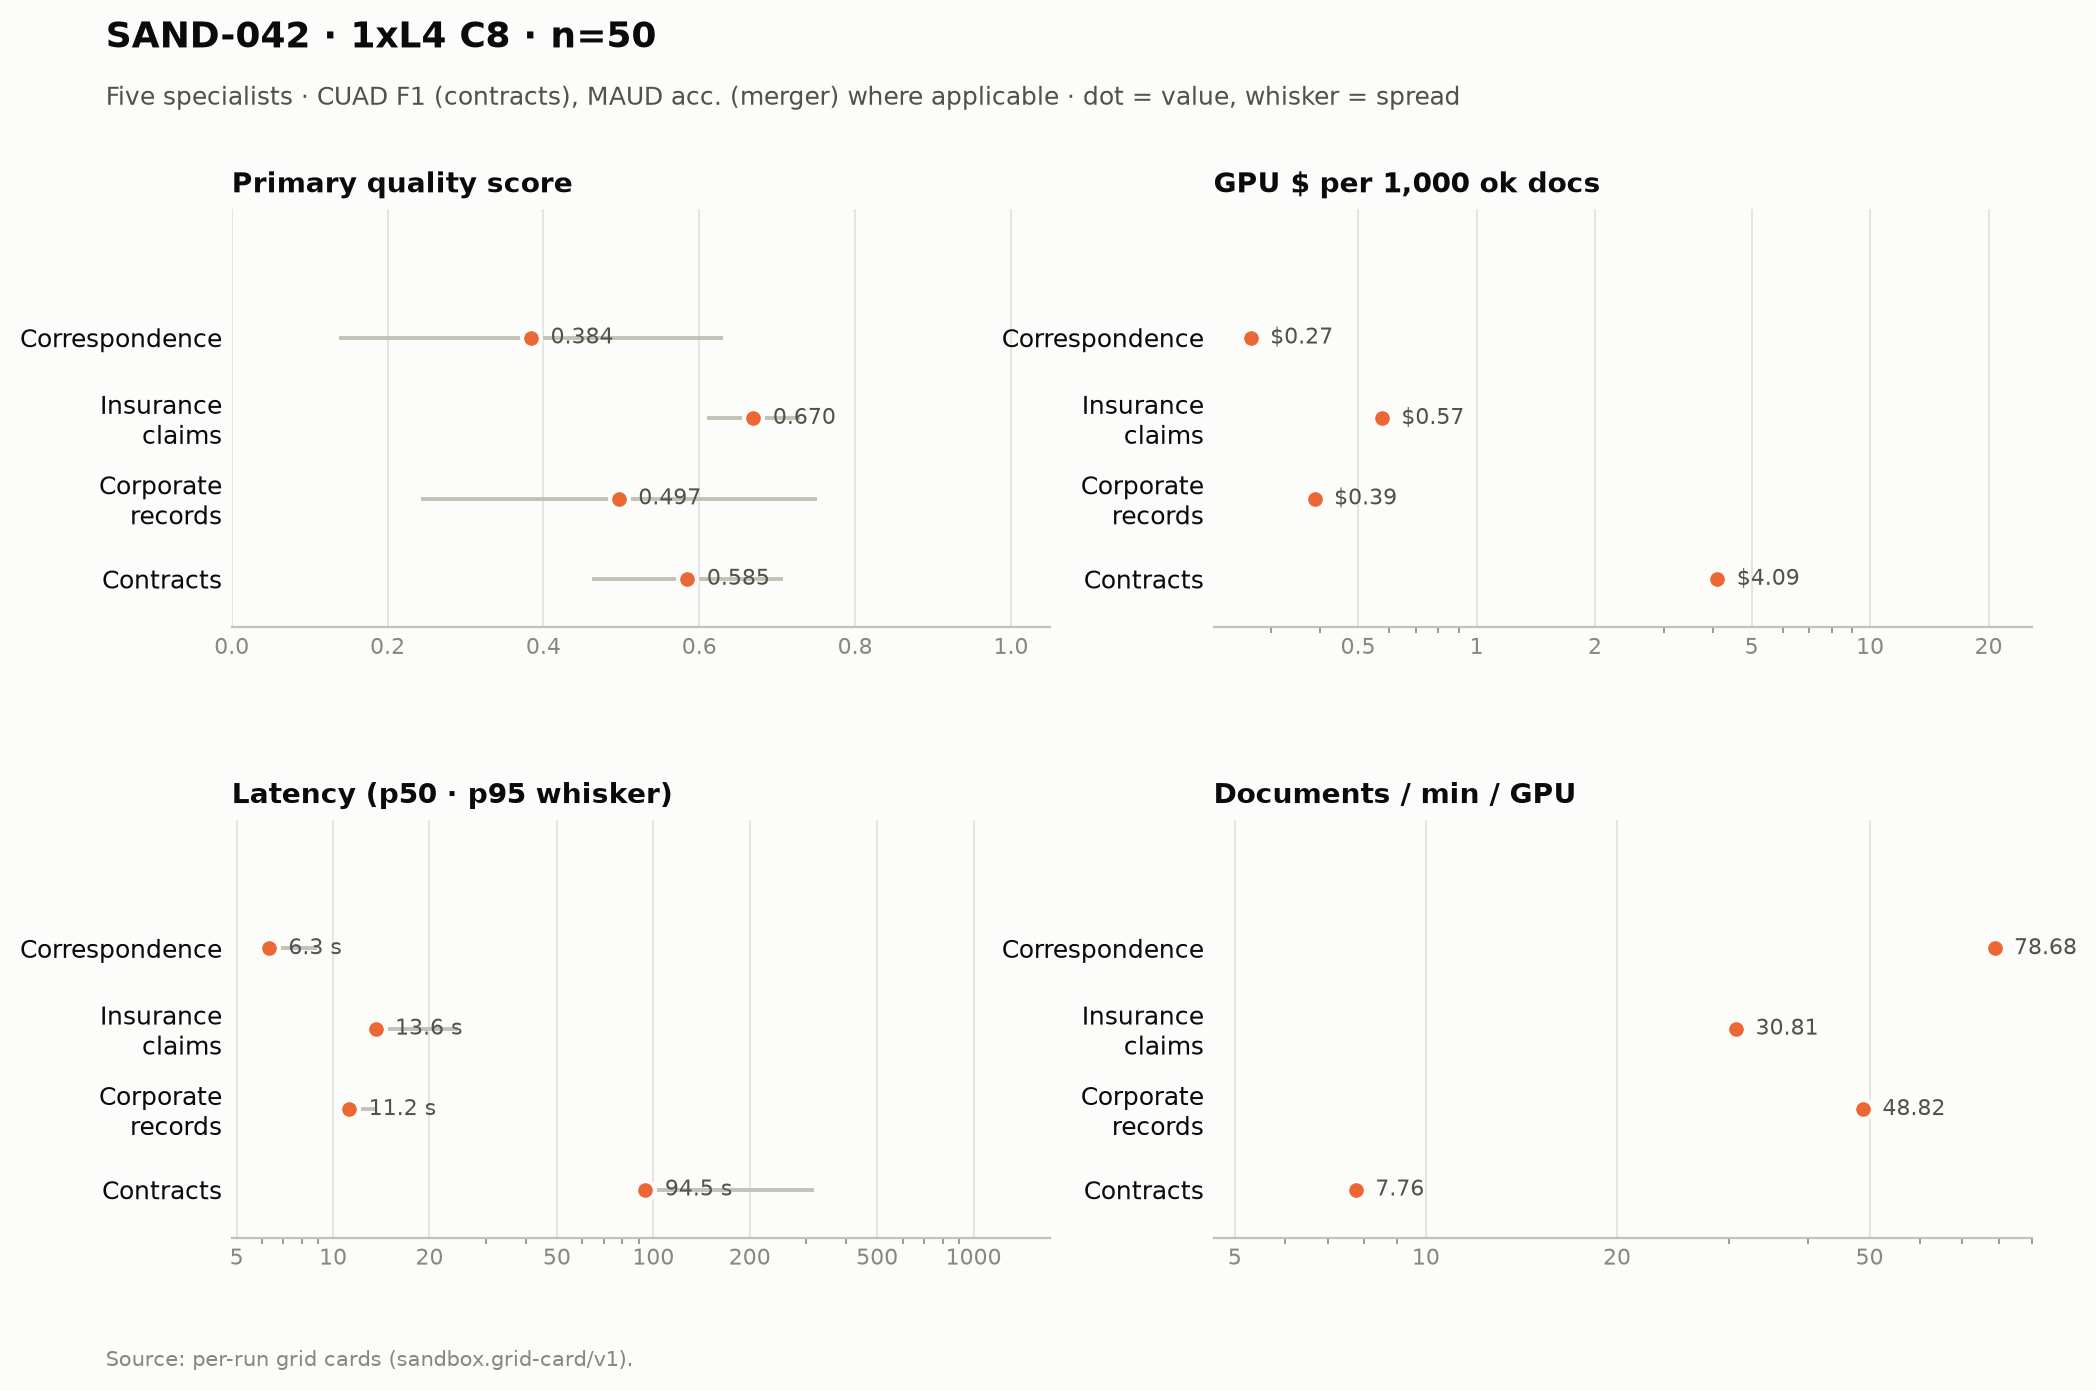
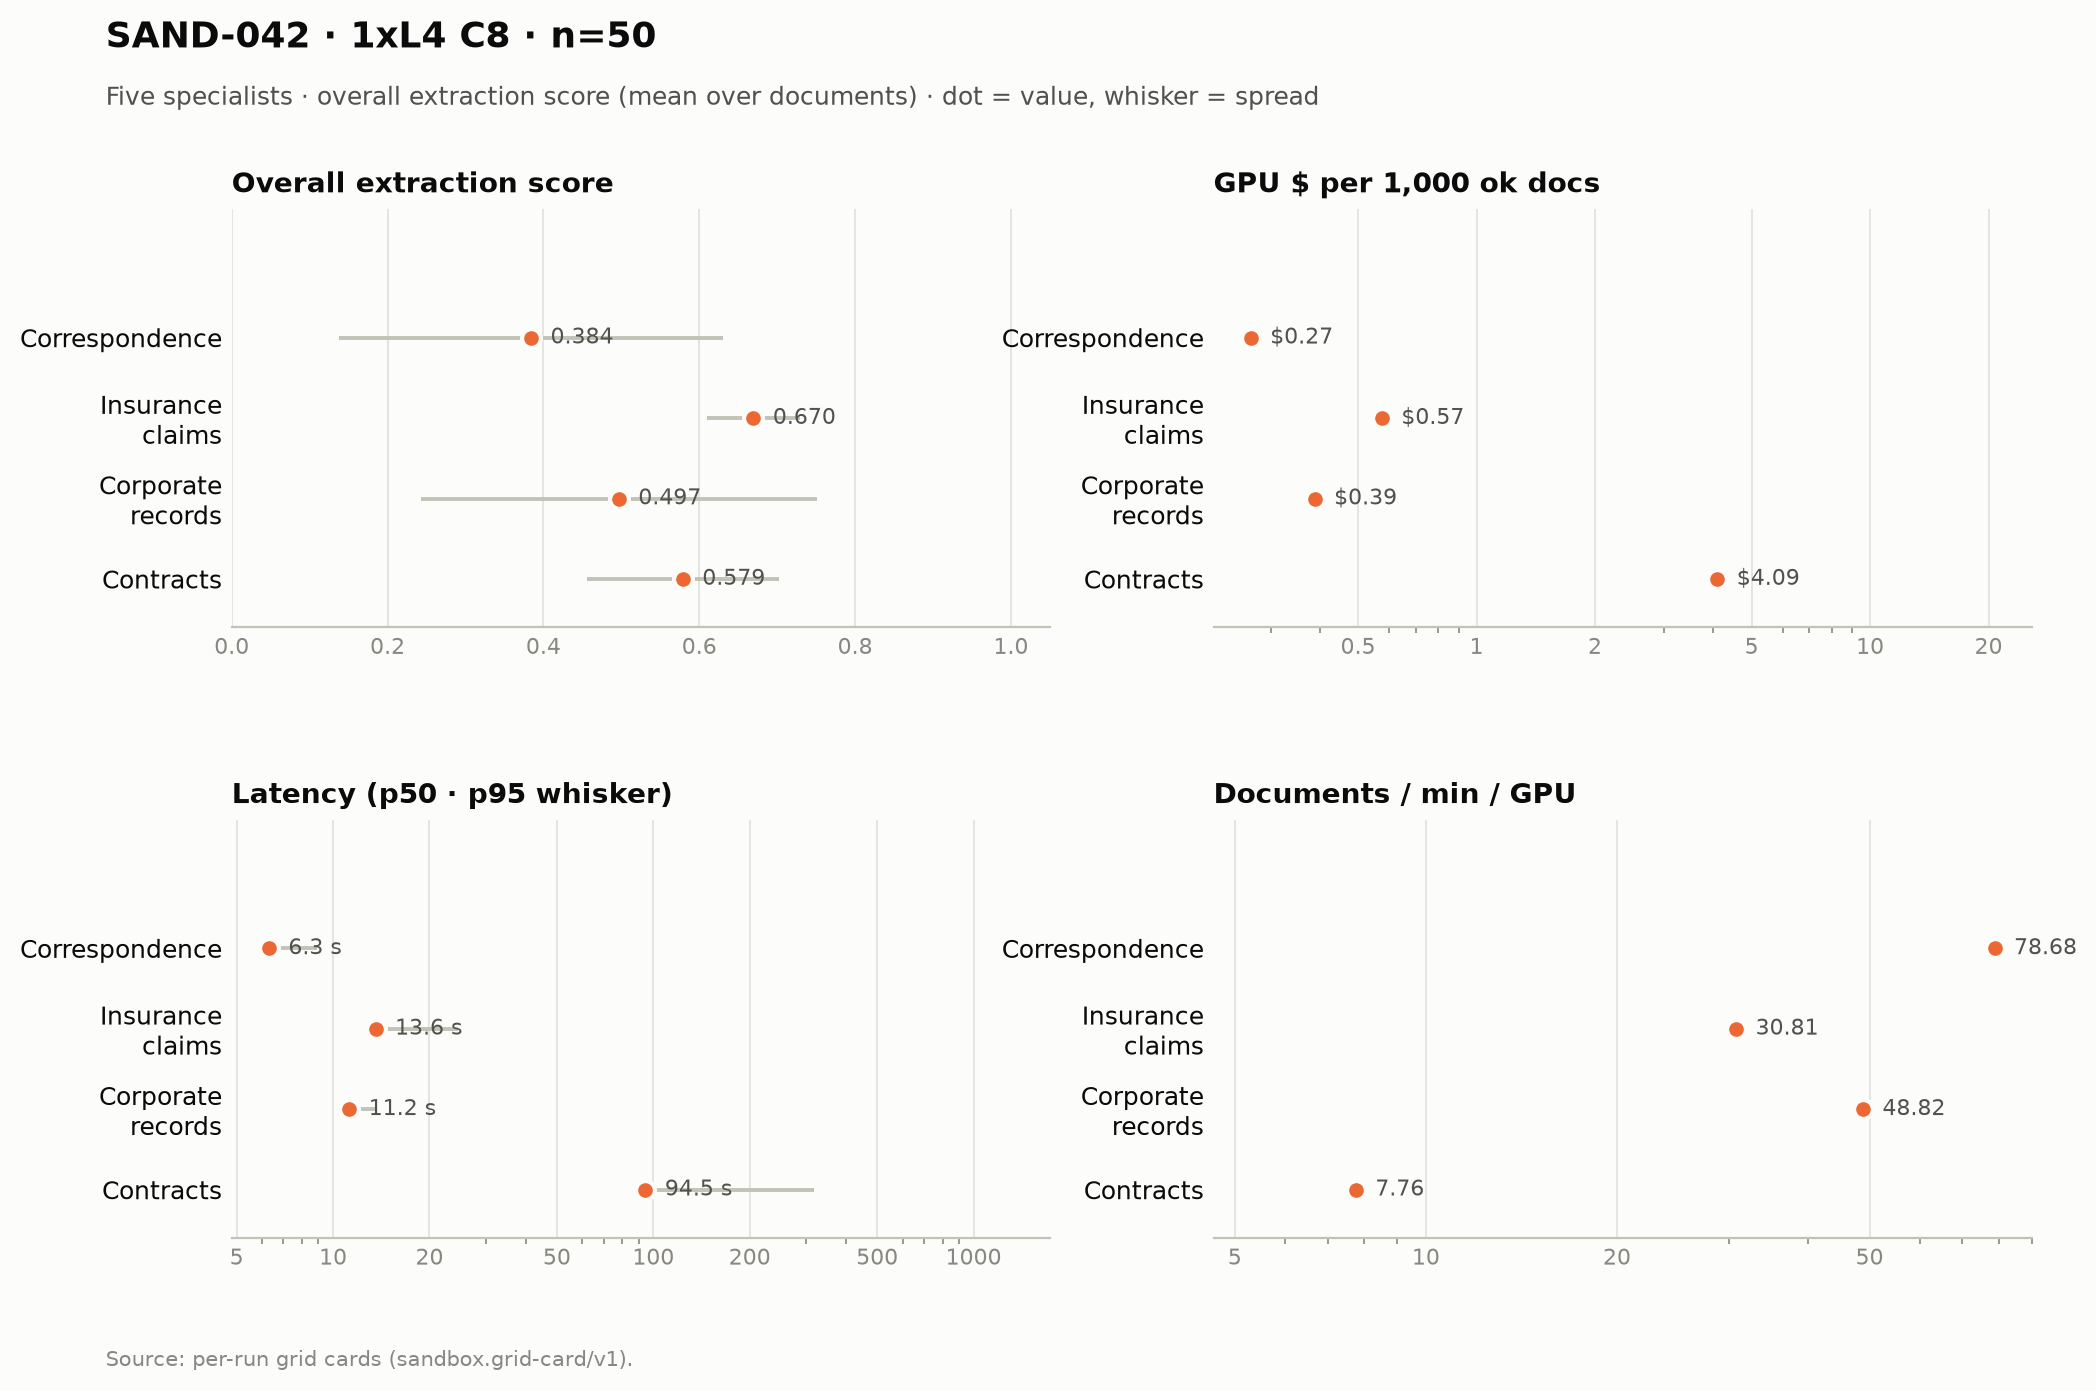
SAND-042: preserve the full vLLM exporter output; reconcile the figure metric
Metric preservation (the exporter published more than we kept)
- vLLM's Prometheus /metrics exposes ~122 families; vllm_metrics kept only 10 and
  threw the rest away. Preserve the verbatim exporter text per replica
  (vllm_metrics_<label>.txt beside the summarized JSON). The dropped families are
  the ones that explain C8-vs-C16: vllm:num_requests_running/waiting, e2e and
  inter-token latency histograms, queue/prefill/decode time.

Figures — one scale for every specialist
- sand42_figures._primary returned CUAD clause F1 for contracts and MAUD accuracy
  for merger, so the dashboard/quality axis disagreed with the per-run card's
  "Overall extraction score", the cell card's Quality row and the master report
  table (grid_figures._primary already used overall_mean). Use overall_mean for
  every specialist; retitle the axis/subtitles accordingly. Clause F1 / MAUD
  accuracy stay on the run cards' clause section.

Docs
- SAND42-EXPERIMENT-DESIGN §5.3: the sampler query now lists the L4 extras
  (utilization.memory, power.limit, clocks.sm). §5.2/§9.2: note the exporter
  output is preserved verbatim, so an OTLP metric stream would be a transport
  duplicate of an already-captured series.

Changed region(s): [[0.1551, 0.0618, 0.6823, 0.0927], [0.093, 0.1237, 0.3101, 0.1546], [0.3101, 0.4019, 0.3721, 0.4328]]

diff --git a/src/mailroom_sandbox/job/sand42_figures.py b/src/mailroom_sandbox/job/sand42_figures.py
@@ -54,10 +54,10 @@ _SOURCE = "Source: per-run grid cards (sandbox.grid-card/v1)."
 
 _MASTER = {
     "quality": {
-        "title": "Primary quality score by specialist and cell",
-        "subtitle": "Field score (insurance, corporate, correspondence) · CUAD F1 (contracts) · "
-                    "MAUD accuracy (merger) · 0–1, higher is better",
-        "note": _SOURCE + " Scores on different metrics are not comparable across classes.",
+        "title": "Overall extraction score by specialist and cell",
+        "subtitle": "Overall extraction score (mean over documents) · 0–1, higher is better",
+        "note": _SOURCE + " CUAD clause F1 (contracts) and MAUD accuracy (merger) are separate "
+                          "clause metrics on the run cards.",
         "fmt": lambda v: f"{v:.3f}",
         "value": lambda card, cell: _primary(card),
         "log": False,
@@ -134,17 +134,14 @@ def _usable(card: Any) -> bool:
 
 
 def _primary(card: Mapping[str, Any]) -> float | None:
-    """Primary quality metric — CUAD F1 for contracts, MAUD accuracy for merger."""
-    quality = _mapping(card.get("quality"))
-    clause = _mapping(quality.get("clause"))
-    value = None
-    if clause.get("kind") == "maud":
-        value = _num(clause.get("accuracy"))
-    elif clause.get("kind") == "cuad":
-        value = _num(clause.get("f1"))
-    if value is None:
-        value = _num(quality.get("overall_mean"))
-    return value
+    """Primary quality metric — the card's "Overall extraction score".
+
+    A single scale across every specialist: the mean suite extraction score over
+    documents (matching the per-run card and the cell/master report table). The
+    task-native CUAD clause F1 (contracts) and MAUD accuracy (merger) live in the
+    run card's clause section, so the comparison axis is not a mix of metrics.
+    """
+    return _num(_mapping(card.get("quality")).get("overall_mean"))
 
 
 def _replicas(card: Mapping[str, Any], cell: str) -> int:
@@ -429,7 +426,7 @@ def _draw_cell(plt, cell: str, cards: Mapping[str, Mapping[str, Any]], path: Pat
     tasks = [task for task, _folder, _label in SPECIALISTS if task in cards]
     labels = [_SHORT[task] for task in tasks]
     n = next((c.get("n") for c in cards.values() if c.get("n")), 50)
-    subtitle = ("Five specialists · CUAD F1 (contracts), MAUD acc. (merger) where applicable · "
+    subtitle = ("Five specialists · overall extraction score (mean over documents) · "
                 "dot = value, whisker = spread")
     fig, axes = _frame(plt, f"SAND-042 · {_cell_label(cell)} · n={n}", subtitle, _SOURCE)
 
@@ -438,7 +435,7 @@ def _draw_cell(plt, cell: str, cards: Mapping[str, Mapping[str, Any]], path: Pat
     scores = [_primary(cards[t]) for t in tasks]
     sds = [_num(_mapping(cards[t].get("quality")).get("overall_sd")) for t in tasks]
     _dot_rows(ax, labels, scores, color, lambda v: f"{v:.3f}", err=sds, xlim=(0, 1.05))
-    ax.set_title("Primary quality score")
+    ax.set_title("Overall extraction score")
 
     # cost per 1k ok docs
     ax = axes[0][1]

diff --git a/tests/test_vllm_metrics.py b/tests/test_vllm_metrics.py
@@ -83,6 +83,9 @@ def test_scrape_samples_and_records_errors(monkeypatch):
     out = vllm_metrics.scrape("https://x.modal.run/v1", "tok", attempts=4, expected=2)
     assert out["coverage"] == "replicas observed: 2 of 2"
     assert len(out["errors"]) == 1 and "RuntimeError" in out["errors"][0]
+    # Every family the exporter publishes is preserved verbatim, keyed by replica.
+    assert sorted(out["raw"]) == ["1000.0", "2000.0"]
+    assert "vllm:time_to_first_token_seconds_bucket" in out["raw"]["1000.0"]
     json.dumps(out)  # serializable
 
 
@@ -99,13 +102,24 @@ def test_cli_scrape_metrics_writes_labelled_json(tmp_path, monkeypatch, capsys):
 
     def fake_scrape(base, key, *, attempts=12, expected=1):
         seen.update(base=base, key=key, expected=expected)
-        return {"coverage": "replicas observed: 2 of 2", "replicas": {}, "errors": [], "at": 0}
+        return {
+            "coverage": "replicas observed: 2 of 2",
+            "replicas": {},
+            "raw": {"1000.0": "process_start_time_seconds 1000.0\nvllm:num_requests_waiting 3.0\n"},
+            "errors": [],
+            "at": 0,
+        }
 
     monkeypatch.setattr(vllm_metrics, "scrape", fake_scrape)
     cfg = config_dir() / "runs" / "legacy" / "run-50-correspondence-specialist-awq.yaml"
     rc = main(["run", "scrape-metrics", "--config", str(cfg), "--label", "after"])
     assert rc == 0
     assert seen["expected"] == 2 and seen["key"] == "tok"
-    out = tmp_path / "run-50-correspondence-specialist-awq" / "vllm_metrics_after.json"
-    assert json.loads(out.read_text())["coverage"] == "replicas observed: 2 of 2"
+    run_dir = tmp_path / "run-50-correspondence-specialist-awq"
+    payload = json.loads((run_dir / "vllm_metrics_after.json").read_text())
+    assert payload["coverage"] == "replicas observed: 2 of 2"
+    assert "raw" not in payload  # summary stays small; the verbatim text is a sibling
+    preserved = (run_dir / "vllm_metrics_after.txt").read_text()
+    assert "process_start_time_seconds=1000.0" in preserved
+    assert "vllm:num_requests_waiting 3.0" in preserved
     assert "replicas observed: 2 of 2" in capsys.readouterr().out

diff --git a/src/mailroom_sandbox/job/vllm_metrics.py b/src/mailroom_sandbox/job/vllm_metrics.py
@@ -92,7 +92,14 @@ def summarize(m: dict[str, float]) -> dict[str, float | None]:
 def scrape(
     base_url: str, api_key: str, *, attempts: int = 12, expected: int = 1
 ) -> dict[str, Any]:
-    """Sample ``/metrics`` ``attempts`` times; group and summarize per replica."""
+    """Sample ``/metrics`` ``attempts`` times; group and summarize per replica.
+
+    ``_KEEP``/``summarize`` keep only the fields the cards render, so the raw
+    exporter text is also returned under ``"raw"`` — one entry per replica key —
+    and the caller preserves it verbatim. vLLM publishes ~120 families; dropping
+    the rest (queue depth, e2e/inter-token latency, prefill/decode time) is not
+    recoverable after the replica is torn down.
+    """
     import httpx
 
     root = base_url.rstrip("/")
@@ -100,12 +107,17 @@ def scrape(
         root = root[: -len("/v1")]
     headers = {"Authorization": f"Bearer {api_key}"} if api_key else {}
     samples: list[dict[str, float]] = []
+    raws: dict[str, str] = {}
     errors: list[str] = []
     for _ in range(max(1, int(attempts))):
         try:
             resp = httpx.get(f"{root}/metrics", headers=headers, timeout=15.0)
             resp.raise_for_status()
-            samples.append(parse_prometheus(resp.text))
+            m = parse_prometheus(resp.text)
+            samples.append(m)
+            key = m.get("process_start_time_seconds")
+            if key is not None:  # same key group_replicas uses; latest scrape wins
+                raws[str(key)] = resp.text
         except Exception as exc:  # noqa: BLE001 — report, never crash a run
             errors.append(f"{type(exc).__name__}: {str(exc)[:120]}")
         time.sleep(0.5)
@@ -113,6 +125,7 @@ def scrape(
     return {
         "coverage": replica_coverage(reps, expected=expected),
         "replicas": {k: summarize(v) for k, v in reps.items()},
+        "raw": raws,
         "errors": errors,
         "at": time.time(),
     }

diff --git a/src/mailroom_sandbox/cli.py b/src/mailroom_sandbox/cli.py
@@ -1936,8 +1936,17 @@ def _cmd_run_scrape_metrics(args) -> int:
         expected=expected,
     )
     dest.mkdir(parents=True, exist_ok=True)
+    # Preserve the exporter output verbatim (every family), one section per replica;
+    # the JSON keeps only the summarized fields the cards render.
+    raws = result.pop("raw", None) or {}
     target = dest / f"vllm_metrics_{args.label}.json"
     target.write_text(json.dumps(result, indent=2, sort_keys=True), encoding="utf-8")
+    if raws:
+        blob = "\n".join(
+            f"# replica process_start_time_seconds={key}\n{text.rstrip()}\n"
+            for key, text in sorted(raws.items())
+        )
+        (dest / f"vllm_metrics_{args.label}.txt").write_text(blob, encoding="utf-8")
     print(f"{result['coverage']} → {target}")
     for err in result.get("errors") or []:
         print(f"WARN: scrape error: {err}", file=sys.stderr)

diff --git a/docs/SAND42-EXPERIMENT-DESIGN.md b/docs/SAND42-EXPERIMENT-DESIGN.md
@@ -303,7 +303,7 @@ score (exact_match, n) · aggregate bucket`.
 | Reliability | ok rate + **Wilson** interval, schema-valid rate, parse errors, length-capped share, error kinds | `sand42_cards._reliability` |
 | Throughput | documents/min, **documents/min/GPU**, tokens/s/GPU, **goodput at the class SLO** | `sand42_cards._goodput` (SLO: 60 s short classes, 300 s contracts, 1800 s merger) |
 | Cost | busy-window GPU $, $/doc, $/ok doc, **$/1k ok**, **$/1k schema-valid**, $/1M tokens, cold-boot $, idle $ | `grid_cards` + `sand42_cards._cost_per_usable` |
-| Engine | TTFT p50/mean, prefix-cache hit rate, preemptions, length finishes, KV-cache use % — per replica, as before/after deltas | `vllm_metrics.scrape` → `grid_cards._engine_block` |
+| Engine | TTFT p50/mean, prefix-cache hit rate, preemptions, length finishes, KV-cache use % — per replica, as before/after deltas | `vllm_metrics.scrape` → `grid_cards._engine_block`; the **full** exporter output (all ~120 families: queue depth, e2e/inter-token latency, prefill/decode time) is preserved verbatim as `vllm_metrics_<label>.txt` beside the summarized JSON |
 | **GPU hardware (new)** | utilization % mean/**p95**/min/max/**peak**, **sampling coverage %**, power draw W, temperature C, memory used/total MiB — per replica, as a **time series** | **SAND-042 in-container nvidia-smi sampler → Modal Volume → `container_telemetry` → `grid_cards._container_telemetry`** |
 | Conditions | engine, admission, fleet, dataset pin + draw, prompt stem, caps, temperature, retries | `grid_cards.collect_card` |
 
@@ -315,7 +315,8 @@ a second port is not available. Instead:
 
 1. `deploy/modal_vllm.py` mounts the `sandbox-vllm-telemetry` volume at `/telemetry` and, once
    vLLM is ready, starts a daemon thread that every `MODAL_VLLM_TELEMETRY_INTERVAL` (default 5 s)
-   runs `nvidia-smi --query-gpu=index,name,utilization.gpu,memory.used,memory.total,temperature.gpu,power.draw`
+   runs `nvidia-smi --query-gpu=index,name,utilization.gpu,memory.used,memory.total,temperature.gpu,power.draw,utilization.memory,power.limit,clocks.sm`
+   (the memory-**bandwidth** utilisation, power cap and SM clock are L4/A100-portable)
    and appends one JSON line to `/telemetry/<label>/<process_start_time_seconds>.jsonl`,
    committing every `MODAL_VLLM_TELEMETRY_COMMIT_EVERY` samples (default 2 → ~10 s).
    The replica filename is vLLM's own `process_start_time_seconds` as `str(float)` —
@@ -477,8 +478,11 @@ Specialist folders, in grid order: `correspondence`, `insurance_claims`, `corpor
 2. **OTel *metrics* export from the container.** The new telemetry is an nvidia-smi series, not an
    OTLP metric stream. The vLLM image has no OTLP metrics exporter configured; enabling one is a
    separate change (add `OTEL_METRICS_EXPORTER`/`OTEL_EXPORTER_OTLP_ENDPOINT` to the vLLM
-   subprocess env and point it at the Langfuse/Phoenix sink). Trace *spans* stay opt-in per
-   `trace.sink`, which SAND-042 leaves at `none` as the SAND-037 grid did.
+   subprocess env and point it at the Langfuse/Phoenix sink). No data is lost meanwhile: the
+   vLLM Prometheus exporter is scraped before/after and its **entire** output is preserved
+   verbatim (`vllm_metrics_<label>.txt`), so the OTLP *stream* would be a transport duplicate of
+   an already-captured series, not a new source. Trace *spans* stay opt-in per `trace.sink`,
+   which SAND-042 leaves at `none` as the SAND-037 grid did.
 3. **`$ per 1M tokens` on Modal is a proxy**, not a bill — Modal bills container-seconds.
    The A100 cards carried both; the card keeps both and labels them.
 4. **Insurance-claims schema-valid rate** is measured (0.23 on the SAND-037 grid) but not fixed
